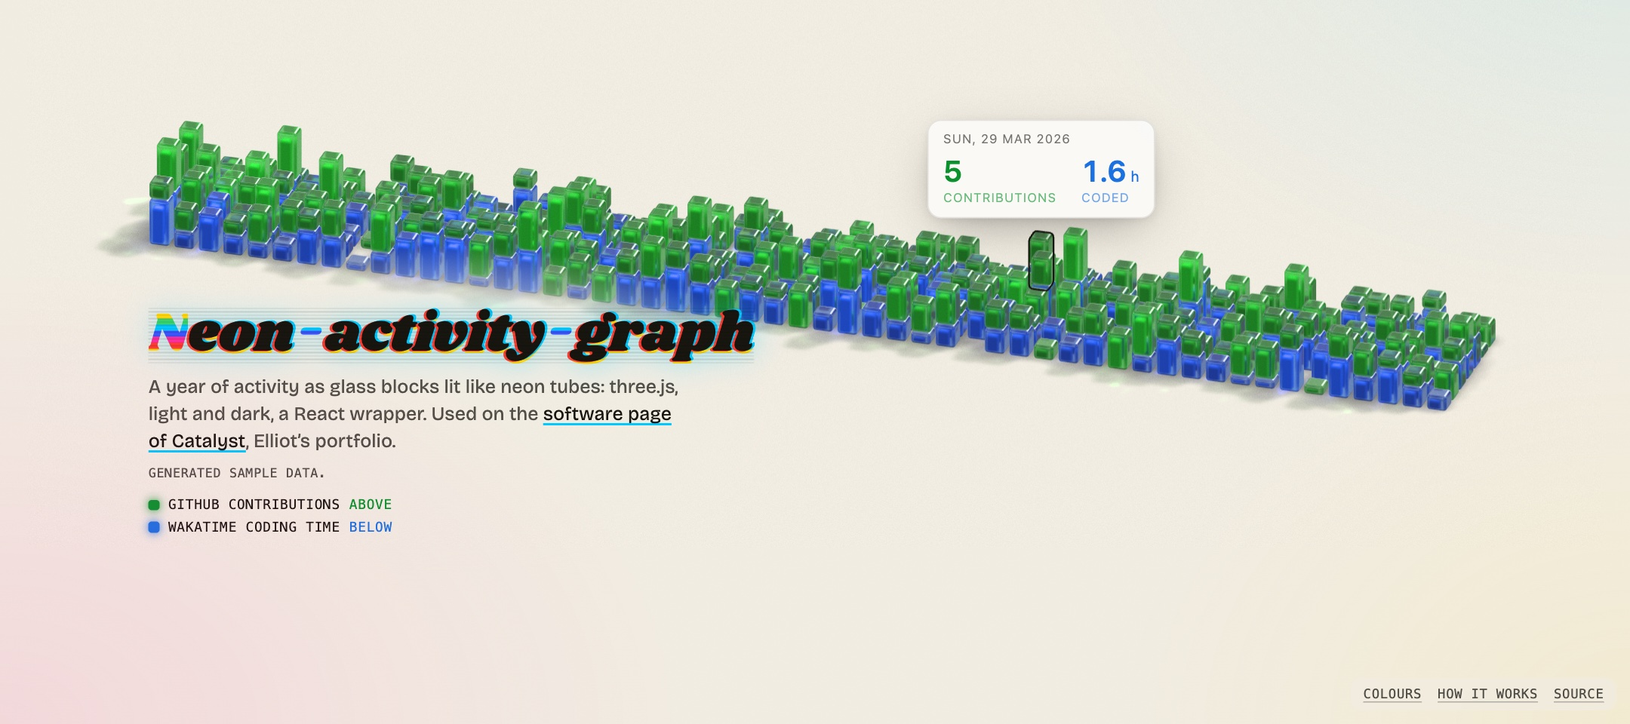
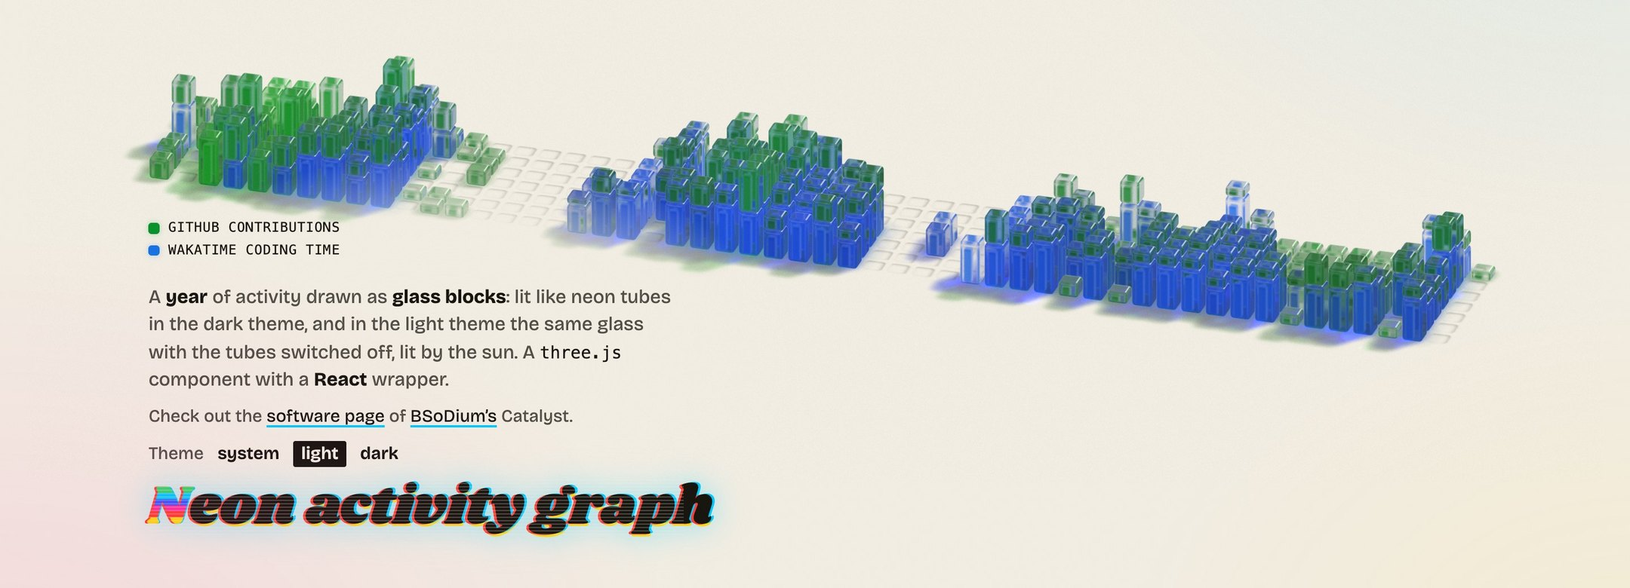
README rewritten for public readers; screenshots refreshed from the demo (#1)
Structure: what it is (dark theme neon tubes, light theme sunlit glass), demo link, features, install, quick start (vanilla and React), data, options split into options / callbacks / graph object, theming, overlay, sound, accessibility, performance, browser support, how it works, development, releasing. Every claim checked against src/types.ts and the code (lite thresholds, sample counts, overlay CSS variables, key bindings, start-up constants). The releasing section no longer speaks of 0.1.1 as the next version.

docs/dark.jpg, light.jpg and technicolor.jpg retaken from the live demo (current lighting, live data, current page).

Changed region(s): [[0.062, 0.0923, 0.9306, 0.9231], [0.8375, 0.9538, 0.9926, 0.9846], [0.5894, 0.1846, 0.6514, 0.2154]]

diff --git a/README.md b/README.md
@@ -1,24 +1,35 @@
-# Neon-activity-graph
+# neon-activity-graph
 
 [![npm](https://img.shields.io/npm/v/neon-activity-graph)](https://www.npmjs.com/package/neon-activity-graph) [![ci](https://github.com/BSoDium/Neon-activity-graph/actions/workflows/ci.yml/badge.svg)](https://github.com/BSoDium/Neon-activity-graph/actions/workflows/ci.yml) [![license](https://img.shields.io/npm/l/neon-activity-graph)](LICENSE)
 
-A 3D activity graph in three.js: one glass block a day, two layers stacked in a column (say GitHub contributions on top of coding time), lit like a neon sign **in the dark theme**: each block holds a rod that flickers on like a gas tube, with a synthesised hum. **In the light theme the tubes are switched off**: the blocks are plain tinted glass, lit by the sun, which casts coloured shadows and caustics, and there is no sound. The camera never moves, so the picture is rendered progressively (soft shadows and anti-aliasing accumulated over a few dozen frames) and then the GPU goes idle.
+A year of activity drawn as glass blocks, in three.js. Each day is a column of two blocks (say GitHub contributions on top of coding time).
 
-It draws the graph only: no panel, no figures, no legend. Hover and keyboard events are handed to you as data (`onHover`) so the card is yours.
+- **Dark theme:** every block holds a neon tube. When the graph appears, the tubes stutter on like a gas sign, with a synthesised hum and bell-like clicks, and now and then a few of them flicker.
+- **Light theme:** the same glass with the tubes switched off, lit by the sun. The glass casts coloured shadows and caustics, traced on the GPU. No sound.
+
+**[Live demo →](https://bsodium.github.io/Neon-activity-graph/)** (the author's own GitHub and WakaTime activity, refreshed every 6 hours)
 
 <p>
-  <img alt="Dark theme" src="docs/dark.jpg" width="49%" />
-  <img alt="Light theme" src="docs/light.jpg" width="49%" />
+  <img alt="Dark theme: glass blocks lit by neon tubes" src="docs/dark.jpg" width="100%" />
 </p>
 <p>
-  <img alt="Custom colours (the demo's Technicolor preset)" src="docs/technicolor.jpg" width="98%" />
+  <img alt="Light theme: the same glass, tubes off, lit by the sun" src="docs/light.jpg" width="49%" />
+  <img alt="Custom colours (the demo's Technicolor preset) and the hover card" src="docs/technicolor.jpg" width="49%" />
 </p>
 
-- Framework-agnostic core (`createActivityGraph`) and a React wrapper (`neon-activity-graph/react`)
-- Generic data: two layers of `{ date, value }`; adapters for GitHub's contribution calendar and WakaTime's summaries
-- Light and dark themes (following `prefers-color-scheme` by default), phone layout (4 strips), reduced motion, a `lite` mode
-- No assets to bundle: the baked light of the dark theme is embedded (41 KB PNG, loaded only for the dark theme)
-- `three` is a peer dependency, and is loaded on demand (`import("three")`), so the entry is small
+The camera never moves, so the picture is rendered progressively (soft shadows and anti-aliasing accumulate over a few dozen frames), and then the GPU goes idle.
+
+It draws the graph and nothing else: no panel, no figures, no legend. Hover and keyboard selection are handed to you as data (`onHover`), so the card around it is yours; an optional [overlay](#overlay) draws a ready-made one.
+
+## Features
+
+- Framework-agnostic core (`createActivityGraph`) and a React component (`neon-activity-graph/react`).
+- Generic data: two layers of `{ date, value }`, with adapters for GitHub's contribution calendar and WakaTime's summaries.
+- Light and dark themes (following `prefers-color-scheme` by default), custom colours that can change live, and a "string of lights" mode with a colour per tube.
+- A layout for narrow boxes (four staggered strips), a `lite` mode for phones and weak machines, and `prefers-reduced-motion` support.
+- A flat placeholder drawn at once (and server-rendered by the React component), seen by the scene's own camera, so the scene replaces it in place.
+- No assets to host: the dark theme's baked light is embedded (a 41 KB PNG, decoded only in the dark theme).
+- `three` is a peer dependency, imported on demand: nothing of three.js loads until a graph is created.
 
 ## Install
 
@@ -26,125 +37,208 @@ It draws the graph only: no panel, no figures, no legend. Hover and keyboard eve
 npm install neon-activity-graph three
 ```
 
+`react` (18 or later) is an optional peer dependency, needed only for `neon-activity-graph/react`. The graph needs WebGL 2.
+
 ## Quick start
 
-Vanilla:
+### Vanilla
 
 ```ts
 import { createActivityGraph, fromGitHubCalendar } from "neon-activity-graph";
 
 const graph = createActivityGraph(document.getElementById("graph")!, {
   data: {
-    top: fromGitHubCalendar(calendar), // GitHub's contributionCalendar, or any { date, value }[] layer
+    top: fromGitHubCalendar(calendar), // GitHub's contributionCalendar, or any GraphLayer
     bottom: { label: "Coding", unit: "h", days: [{ date: "2026-11-19", value: 3.5 } /* ... */] },
   },
-  onHover: (day) => { /* day: { date, top, bottom, x, y, outline } | null: show your card */ },
+  onHover: (day) => {
+    // day: { index, date, top, bottom, outline, x, y, behind? } or null
+  },
 });
 
-graph.update(newData);       // rebuilds the graph
-graph.setTheme("dark");      // "light" | "dark" | "auto"
-graph.destroy();             // frees the GPU resources and the listeners
+graph.update(newData);  // draws other data (rebuilds the graph)
+graph.setTheme("dark"); // "light" | "dark" | "auto"
+graph.destroy();        // frees the GPU resources and the listeners
 ```
 
-Give the container a size: the picture fills it (about 4:1 for one strip; with `strips: 4`, about 4:5). It needs WebGL 2.
+Give the container a size: the picture fills it. One strip wants an aspect of about 4:1; `strips: 4`, about 4:5.
 
-React:
+### React
 
 ```tsx
 import { ActivityGraphView } from "neon-activity-graph/react";
 
-<ActivityGraphView data={data} theme="auto" className="aspect-[4/1] w-full" onHover={setDay} />
+<ActivityGraphView data={data} theme="auto" overlay className="aspect-[4/1] w-full" onHover={setDay} />;
 ```
 
-`data` should be memoised (a new object rebuilds the graph); callbacks can be new closures at every render.
+The component takes the same options as `createActivityGraph`, plus `className`, `style` and `aspect` (the box's width / height: 3.97 for one strip and 0.8 for several by default, so the server-rendered placeholder has the right shape).
+
+Memoise `data`: a new object rebuilds the graph, as do `strips`, `weeks`, `lite`, `templatesUrl` and turning `rodColor` on or off. A new `theme` or `colors` is applied in place, and callbacks can be new closures on every render.
 
 ## Data
 
 ```ts
-interface GraphData { top: GraphLayer; bottom: GraphLayer }
-interface GraphLayer { label?: string; unit?: string; days: { date: string /* "2026-11-19", UTC */; value: number }[] }
+interface GraphData {
+  top: GraphLayer;
+  bottom: GraphLayer;
+}
+
+interface GraphLayer {
+  label?: string; // used by the hover card and the accessible label, not drawn
+  unit?: string;  // "contributions", "h"
+  days: { date: string /* "2026-11-19", read in UTC */; value: number }[];
+}
 ```
 
-The graph shows the last `weeks` weeks (53 by default) ending at the latest day of either layer; missing days are 0 (a flat tile). A block's height and colour follow `sqrt(value / max)` of its layer. Adapters (all pure, no network): `fromGitHubCalendar`, `fromWakaTimeSummaries`, `fromRecords(rows, date, value)`; `fakeLayer({ seed })` makes repeatable fake data for demos and tests.
+- The graph shows the last `weeks` weeks (53 by default), ending at the latest day of either layer. Missing days are 0 (a flat tile); either layer can be empty.
+- A block's height and colour follow `sqrt(value / max)` within its layer.
+- Adapters (pure, no network):
+  - `fromGitHubCalendar(calendar)`: GitHub GraphQL's `contributionsCollection.contributionCalendar`.
+  - `fromWakaTimeSummaries(summaries)`: WakaTime's `/users/current/summaries`, in hours.
+  - `fromRecords(rows, date, value, label?, unit?)`: anything with a date and a number; rows on the same day add up.
+  - `fakeLayer({ seed, days, end, scale })`: repeatable fake data for demos and tests.
 
 ## Options
 
 | Option | Default | |
 | --- | --- | --- |
-| `data` | required | The two layers, or `null` while they are being fetched (only the place-holder shows; `update(data)` builds the graph). |
+| `data` | required | The two layers, or `null` while they load: only the placeholder shows until `update(data)`. |
 | `weeks` | `53` | How many weeks are drawn. |
 | `strips` | `1` | `1` is one long strip; `4` staggers four strips for a narrow, tall box (aspect about 0.8). |
 | `theme` | `"auto"` | `"light"`, `"dark"` or `"auto"` (follows `prefers-color-scheme`). Change it with `setTheme`. |
-| `colors` | green on top, blue below | `{ top?: { light?: [low, high], dark?: [low, high] }, bottom?: ... }`, colours as `#rrggbb` or `0xrrggbb`: the glass of a quiet day and of the busiest one. Change them live with `graph.setColors({ top, bottom })` (React: change the `colors` prop): the blocks are rebuilt in place without the start-up and without refetching (the first change is applied at once, later ones within 120 ms are folded into one more rebuild); about 0.3 s from the call to the new picture in focus on a laptop (at 1440 px, 409 blocks: 0.1-0.15 s of building, then a few frames), the old picture staying, softened, until then. Colours other than the defaults get a generic rod (the hue lifted toward white) instead of the tuned green and blue. |
-| `background` | nearest opaque ancestor background | A CSS colour, or `(theme) => css`. The ground takes it, so the picture has no seam with the page. Call `setTheme` again after it changed. |
-| `rodColor` | `undefined` | `({ layer, index, date, t }) => [r, g, b] \| null`: the dark theme's rod colour (linear RGB, around 0..1; `t` is how busy the day was). Giving it turns on the "string of lights" look: clear glass, no grey veil, softer bloom; `null` keeps the default colour for that day. |
-| `sound` | `true` | The synthesised hum, dings and soft bzzs of the start-up. They play only once the browser lets the page make sound (after the visitor interacted with it) and only while the graph is on screen. |
+| `colors` | green on top, blue below | `{ top?: { light?: [low, high], dark?: [low, high] }, bottom?: ... }`: the glass of a quiet day and of the busiest one, as `#rrggbb` or `0xrrggbb`. See [Theming](#theming). |
+| `background` | the nearest opaque ancestor's | A CSS colour, or `(theme) => css`. The ground takes it, so the picture has no seam with the page. Call `setTheme` again after it changes. |
+| `rodColor` | | `({ layer, index, date, t }) => [r, g, b] \| null`: each tube's colour in the dark theme. See [Theming](#theming). |
+| `sound` | `true` | The start-up's hum and clicks, and the hum of the selected tube. See [Sound](#sound). |
 | `reducedMotion` | `"auto"` | `"auto"` follows `prefers-reduced-motion`; when reduced there is no start-up and no flicker. |
-| `lite` | `"auto"` | The light version: a third of the frames, lower resolution, simpler blocks. `"auto"` turns it on for coarse pointers and for machines with 4 cores or fewer or under 4 GB. |
-| `grain` | `0.012` | Camera grain strength; `0` is off. |
-| `templatesUrl` | embedded | URL of `caustic-templates.png` (see below) instead of the embedded data URI. |
-| `label` | "Activity graph, ..." | The accessible name. The arrow keys walk the days (focus the graph by clicking it), Escape lets go. |
-| `placeholder` | `true` | Shows the flat days (the same slab, seen by the same camera, strips on a narrow box) at once, pulsing, and fades it out when the first picture is on screen. The React view renders it itself, so it is in server-rendered pages. |
-| `overlay` | off | `true` or `{ outline?, card?, locale? }`: the day's outline (an SVG path round its blocks) and a day card, drawn over the graph. `card` can be `false` or a function `(info) => string \| Node`. Styled with CSS variables on the container or above: `--nag-outline`, `--nag-outline-fill`, `--nag-card-bg`, `--nag-card-fg`, `--nag-card-muted`, `--nag-top`, `--nag-bottom`, `--nag-card-radius`. |
-| `maxPixelRatio` | `2` | The highest pixel ratio the picture is rendered at (`lite` is always 1). |
-| `maxPixels` | `8_000_000` | The most pixels rendered; a larger container is rendered at a lower ratio (also capped by the card's texture size). |
-| `onLayout` | | `(bounds) => void`: where the blocks are on the screen, `{ left, right, top, bottom }` in CSS pixels of the container (the first layout, and every resize). The same numbers are on the container as the CSS variables `--nag-content-left`, `--nag-content-right`, `--nag-content-top` and `--nag-content-bottom`, and in `graph.bounds`: use them to line a caption up with the picture and not with its box (the demo hangs its title in the empty ground at the bottom left, `left: var(--nag-content-left)`). |
-| `onHover` | | `(info \| null) => void`: `{ index, date, top, bottom, outline, x, y, behind }`. `outline` is the SVG `points` of the day's silhouette, `x, y` a point on its top in CSS pixels of the container. Clicking days that are behind one another cycles through them (`behind`). |
-| `onRedrawn` | | The picture has been drawn again and is in focus (after the first build and after every rebuild: theme, colours, resize): time an effect to this, not to the click that asked for it (the demo's cling). |
-| `onReady` / `onLit` | | The first picture is on screen (fade your place-holder); the picture is lit (`false` while the start-up runs). |
-| `startup` | | `({ inView }) => { start?, stop? } \| void`: called each time a start-up is prepared, to hook your own sound or greeting to it. |
+| `lite` | `"auto"` | A third of the frames, a lower resolution, simpler blocks. `"auto"` turns it on for coarse pointers, 4 CPU cores or fewer, or under 4 GB of memory. |
+| `grain` | `0.012` | Film grain strength; `0` turns it off. |
+| `placeholder` | `true` | The flat days, shown at once and pulsing, faded out when the first picture is on screen. |
+| `overlay` | off | `true` or `{ outline?, card?, locale? }`: the selected day's outline and a day card, drawn over the graph. See [Overlay](#overlay). |
+| `label` | "Activity graph, one column a day. …" | The accessible name. |
+| `templatesUrl` | embedded | Where to fetch `caustic-templates.png` from, instead of the embedded data URI. |
+| `maxPixelRatio` | `2` | The highest pixel ratio rendered (`lite` always renders at 1). |
+| `maxPixels` | `8_000_000` | The most pixels rendered; a larger container is rendered at a lower ratio. |
 | `debug` | | `{ metrics?, wireframe?, neonHold? }`: development helpers (`data-*` timings on the container, the glass as a cage, the picture held half on). |
 
-`createHoverOverlay(container, options, labels)` is the overlay on its own, for a graph you drive yourself. In React, `<ActivityGraphView aspect={4} overlay />` takes the same options (`aspect` is the box's, so the server-rendered place-holder has the right shape).
+### Callbacks
 
-The blocks' bounds are also known before anything is drawn: `predictBounds(weeks, strips, width, height)` (in `neon-activity-graph/layout`) is what the container's `--nag-content-*` variables are set from at creation, so a caption lined up with the picture is placed at the first paint and does not move when the scene arrives; the scene's own measurement replaces it a moment later (a few pixels at most).
+| Callback | |
+| --- | --- |
+| `onHover(info \| null)` | The day under the pointer or the arrow keys: `{ index, date, top, bottom, outline, x, y, behind? }`. `outline` is the SVG `points` of the column's silhouette and `x, y` a point on its top, in CSS pixels of the container. Clicking where days stand behind one another cycles through them (`behind: { index, count }`). |
+| `onLayout(bounds)` | Where the blocks are, `{ left, right, top, bottom }` in CSS pixels of the container, on the first layout and on every resize. |
+| `onReady()` | The first picture is on screen. |
+| `onRedrawn()` | The picture has been drawn again and is in focus: after the first build and after every rebuild (theme, colours, resize). Time an effect to this rather than to the click that asked for it. |
+| `onLit(lit)` | `false` while the start-up runs, `true` once the picture is lit. |
+| `startup({ inView })` | Called each time a start-up is prepared; return `{ start?, stop? }` to hook your own sound or greeting to it. |
 
-`graph.cling("small" | "big")` plays one of the start-up's bell-like clicks on demand (the demo uses it when the colours change): same synthesised bell, quiet, honours `sound`, silent in the light theme (the tubes are off) and where the browser does not allow sound yet (call it from a click or key handler).
+### The graph object
 
-A flat place-holder that shares the scene's camera (so the scene replaces it in place) can be drawn without loading three.js: `import { placeholderTiles } from "neon-activity-graph/layout"` gives an SVG `viewBox` and one path of all the squares.
+| Member | |
+| --- | --- |
+| `update(data)` | Draws other data (the graph is rebuilt). |
+| `setTheme(theme)` | Switches the theme; the start-up plays again in the dark theme. |
+| `setColors({ top?, bottom? })` | Changes the colours in place. See [Theming](#theming). |
+| `cling("small" \| "big")` | One of the start-up's bell-like clicks, on demand (for a change the visitor made). Silent in the light theme and when `sound` is off. |
+| `bounds` | The blocks' bounds (`null` before the first layout). |
+| `ready` | A promise that resolves when the graph has been built (or has failed). |
+| `destroy()` | Stops everything and frees the GPU resources and the listeners. |
+
+### Lining things up with the picture
+
+The isometric view leaves empty ground in the corners of the box, so a caption lined up with the box looks off. The blocks' bounds are set on the container as the CSS variables `--nag-content-left`, `--nag-content-right`, `--nag-content-top` and `--nag-content-bottom` (and in `graph.bounds` and `onLayout`). They are predicted from the geometry at creation, so a caption placed with `left: var(--nag-content-left)` is right from the first paint; the scene's own measurement replaces them a moment later (a few pixels at most).
+
+### Without three.js
+
+`neon-activity-graph/layout` needs neither three.js nor a browser: the adapters, the grid of days, `predictBounds(weeks, strips, width, height)`, and `placeholderTiles()` / `placeholderMarkup()` for a flat placeholder (an SVG `viewBox` and one path of all the squares) seen by the scene's camera.
+
+## Theming
+
+- **Themes.** `"auto"` follows `prefers-color-scheme` and its changes. The ground takes the page's background (`background`, or the nearest opaque ancestor's), so the picture sits on the page without a seam.
+- **Colours.** Each layer has two tones per theme: the glass of its quietest day and of its busiest one; the days in between are mixed. The defaults are a GitHub-like green on top and a blue below, with tubes tuned to them; other colours get a generic tube (the hue lifted toward white).
+- **Live changes.** `graph.setColors({ top, bottom })` (or a new `colors` prop in React) rebuilds the blocks in place, without the start-up and without new data. The first change is applied at once; changes in the next 120 ms (dragging a colour input) are folded into one more rebuild. The old picture stays, softened, until the new one is in focus: about 0.3 s on a laptop.
+- **String of lights.** `rodColor` gives each tube its own colour in the dark theme (linear RGB around 0..1; `t` is how busy the day was; `null` keeps the default). It also switches to clear glass, no grey veil and a softer bloom. The light theme ignores it.
+
+The [demo](https://bsodium.github.io/Neon-activity-graph/) has a few presets (Technicolor, Ice, Sunset, Mono) and colour pickers.
+
+## Overlay
+
+`overlay: true` (or `<ActivityGraphView overlay />`) draws the selected day's outline (an SVG path around its blocks) and a day card over the graph. `outline: false` and `card: false` turn either off, `card` can also be a function `(info) => string | Node` for your own content, and `locale` formats the default card's date. Style it with CSS variables on the container or above: `--nag-outline`, `--nag-outline-fill`, `--nag-card-bg`, `--nag-card-fg`, `--nag-card-muted`, `--nag-card-radius`, `--nag-top`, `--nag-bottom`.
+
+`createHoverOverlay(container, options, labels)` is the same overlay on its own, for a graph you drive yourself.
+
+## Sound
+
+All sound is synthesised with Web Audio; there are no files.
+
+- The dark theme's start-up: a low ballast hum that dies away, and soft bell-like clicks as areas of tubes catch.
+- The idle flickers, and a faint hum on the selected tube that follows its brightness.
+- `graph.cling()`, on demand.
+
+Sound plays only once the browser lets the page make it (after the visitor has interacted with the page), and only while the graph is on screen and the tab visible. The light theme is silent: its tubes are off. `sound: false` turns it all off.
+
+## Accessibility
+
+- The container is a `group` with an accessible name (`label`).
+- Once the graph has been clicked, the arrow keys walk the days (left and right by week, up and down by day) and Escape lets go. The graph is not in the tab order.
+- The overlay announces the selected day through a polite live region.
+- With `prefers-reduced-motion` (or `reducedMotion: true`) there is no start-up and no flicker.
+
+If the graph carries information your page does not give elsewhere, add a text alternative of your own (a summary or a table).
 
 ## Performance
 
-- Nothing moves, so the picture is drawn once, a frame at a time (96 jittered samples; 32 in `lite`), then the render loop stops. Hover only re-lights the blocks (a few frames, then stops again).
-- The start-up and the idle flickers update the light of the blocks, not their geometry: a light update costs about 0.05 ms of CPU and a frame about 0.5 ms on an Apple M4; on an emulated Pixel 7 (CPU slowed 6x) 0.7-0.8 ms and 4-5 ms.
-- The one-time build (geometry, ground light) stalls the main thread for a few hundred ms, up to 1.3 s on a slowed phone. Dark theme: the baked light is decoded once.
-- The idle flickers run only while the graph is in view and the tab visible; `prefers-reduced-motion` skips the start-up altogether.
-- The picture is rendered at the container's size times the pixel ratio (up to 2), so it grows with the screen; above 8 million pixels the ratio drops. Measured (Chrome on an Apple M4, dark and light): a 2352 px wide graph on a 2560 px screen at ratio 2 renders 4704 x 1184 px (5.6 MP), the first picture is on screen after about 1 s, rAF stays at 16.7 ms (p95 16.8 ms) with a one-time build hitch of 250-330 ms, JS heap about 100 MB. GPU memory is not measured: expect a few hundred MB of half-float targets at that size, which `maxPixels` bounds.
-- three.js is imported on demand: until the graph is created nothing of it is loaded.
+- Nothing moves, so the picture is drawn once, a frame at a time (96 jittered samples; 32 in `lite`), and then the render loop stops. Hovering only re-lights the blocks: a few frames, then it stops again.
+- The start-up and the idle flickers change the blocks' light, not their geometry: a light update costs about 0.05 ms of CPU and a frame about 0.5 ms on an Apple M4 (0.7-0.8 ms and 4-5 ms on an emulated Pixel 7 with the CPU slowed 6x).
+- The one-time build (geometry, ground light) blocks the main thread for a few hundred ms, up to 1.3 s on a slowed phone.
+- Flickers run only while the graph is in view and the tab visible.
+- The picture is rendered at the container's size times the pixel ratio (up to 2); above 8 million pixels the ratio drops. Measured in Chrome on an Apple M4: a 2352 px wide graph at ratio 2 renders 4704 x 1184 px (5.6 MP) and is on screen after about 1 s, with a one-time build hitch of 250-330 ms, then rAF at 16.7 ms (p95 16.8 ms) and a JS heap of about 100 MB. GPU memory was not measured: expect a few hundred MB of half-float render targets at that size, which `maxPixels` bounds.
 
 ## Browser support
 
-Anything with WebGL 2 and half-float render targets (current Chrome, Edge, Firefox, Safari 15+, iOS Safari). Without WebGL 2 the call fails (logged); check first and draw a fallback if you care (`document.createElement("canvas").getContext("webgl2")`).
+Anything with WebGL 2 and half-float render targets: current Chrome, Edge and Firefox, Safari 15+, iOS Safari. Without WebGL 2 the graph fails (and logs it); check first if you want a fallback:
 
-## How the optics work
+```ts
+const supported = !!document.createElement("canvas").getContext("webgl2");
+```
 
-- **Light theme.** The sun's light through the glass is traced on the GPU (`ground-light.ts`, a vertex shader that splats rays onto the ground): refraction, Fresnel, total internal reflection, the glass's colour absorption, rounded edges. The ground's brightness is a signed difference to what it would have got with no glass, so shadows are coloured and soft and the caustics are the surplus. `glass-caustics.ts` is the readable CPU version of the same optics, with the tests.
-- **Dark theme.** There is no sun; the light is each block's rod. What one block casts on the ground is *baked*: `assets/caustic-templates.png` holds path-traced templates (Mitsuba 3) of a glass block with a rod in it, for 3 heights x 4 heights above the ground, averaged over the square's symmetries. The graph lays the right template under every block, in the rod's colour. Tracing this live does not work: with the rays a page can afford the result is noise.
-- **Start-up.** The blocks are split into 5 adjacent rectangles of different sizes (recursive cuts), each with its own few stutters (2-4), then a warm-up; a block whose rod is off is dim and lit by its lit neighbours. The sound is Web Audio (a 100 Hz ballast hum and bell-like dings), no file. Afterwards, rarely and less and less, a batch of tubes flickers like a sign's.
-- **Grain.** A soft, luminance-dependent noise added in the last pass, like a camera's.
+## How it works
+
+- **Light theme.** The sun's light through the glass is traced on the GPU (`ground-light.ts`: a vertex shader that splats rays onto the ground) with refraction, Fresnel, total internal reflection, the glass's colour absorption and rounded edges. The ground's brightness is a signed difference to what it would get with no glass, so the shadows are coloured and soft and the caustics are the surplus. `glass-caustics.ts` is the readable CPU version of the same optics, and what the tests check.
+- **Dark theme.** There is no sun: the light is each block's tube. What one block casts on the ground is baked: `assets/caustic-templates.png` holds path-traced templates (Mitsuba 3) of a glass block with a tube inside, for 3 block heights x 4 heights above the ground, averaged over the square's symmetries. The graph lays the right template under every block, in the tube's colour. Tracing this live does not work: with the rays a page can afford, the result is noise.
+- **Start-up.** The blocks are cut into 5 adjacent rectangles of different sizes, each with its own 2-4 stutters and a short warm-up. A block whose tube is still off is dim, lit only by its neighbours. Afterwards, rarely and less and less often, a small batch of tubes flickers like a real sign's.
+- **Grain.** A soft, luminance-dependent noise in the last pass, like a camera's.
+
+More on the dark theme's glass and tubes: [`docs/dark-glass-and-rods.md`](docs/dark-glass-and-rods.md).
 
 ### Regenerating the caustic templates
 
-Only needed if the blocks' shape or the rod changes. See `scripts/caustic-templates/README.md` (Mitsuba 3, about 15 minutes), then `pnpm embed:templates` rewrites the embedded data URI (`pnpm build` does it too).
+Only needed if the blocks' shape or the tube changes. See [`scripts/caustic-templates/README.md`](scripts/caustic-templates/README.md) (Mitsuba 3, about 15 minutes), then `pnpm embed:templates` rewrites the embedded data URI (`pnpm build` does it too).
 
-## Demo and playground
-
-The demo's fonts are Shrikhand (title), Bricolage Grotesque (text) and JetBrains Mono (labels), all SIL Open Font License 1.1 (licence texts in `demo/public/fonts`), Latin subsets, self-hosted. It also shows the colour presets (`setColors`), a title that switches on with the graph's start-up, and the overlay.
-
-
-The [demo](https://bsodium.github.io/Neon-activity-graph/) draws the author's current activity (GitHub contributions over WakaTime coding time) and falls back to generated data when the activity file is not there. `demo/` is the page, `demo/scripts/fetch-activity.mjs` fetches public data without a token (a scheduled workflow writes `activity.json` to the `data` branch every 6 hours; set the repository variables `GITHUB_LOGIN` and `WAKATIME_USER` to draw somebody else).
+## Development
 
 ```sh
-pnpm demo  # the demo page
-pnpm dev   # the playground: fake data and every option
+pnpm install
+pnpm dev        # the playground: fake data and every option
+pnpm demo       # the demo page
+pnpm test       # vitest
+pnpm typecheck
+pnpm build      # dist/ (embeds the templates, then tsup)
 ```
+
+The [demo](https://bsodium.github.io/Neon-activity-graph/) (`demo/`) draws the author's current activity: GitHub contributions over WakaTime coding time. `demo/scripts/fetch-activity.mjs` fetches public data without a token, and a scheduled workflow writes `activity.json` to the `data` branch every 6 hours (set the repository variables `GITHUB_LOGIN` and `WAKATIME_USER` to draw someone else's). Without that file the demo falls back to generated data. Its fonts are Shrikhand, Bricolage Grotesque and JetBrains Mono, all under the SIL Open Font License 1.1 (licence texts in `demo/public/fonts`), self-hosted Latin subsets.
 
 ## Releasing (maintainers)
 
-Releases go through npm Trusted Publishing (OIDC): no npm token is created or stored. `0.1.0` was published by hand (a trusted publisher can only be attached to a package that exists); the trusted publisher is set on npmjs.com (package > Settings > Trusted Publisher > GitHub Actions: user `BSoDium`, repository `Neon-activity-graph`, workflow `release.yml`, environment empty).
+Releases go through npm Trusted Publishing (OIDC): no npm token is created or stored. The trusted publisher is set on npmjs.com (package > Settings > Trusted Publisher > GitHub Actions: user `BSoDium`, repository `Neon-activity-graph`, workflow `release.yml`, environment empty). `0.1.0` was published by hand, since a trusted publisher can only be attached to a package that already exists.
 
-From now on: bump `version` in `package.json` (the next one, `0.1.1`, is the first to be published with provenance), commit, then `git tag v0.1.1 && git push origin v0.1.1`. The `release` workflow tests, builds and publishes with provenance; the tag must match the version, and a tag for a version already on npm does nothing.
+To release:
+
+1. Bump `version` in `package.json` and commit.
+2. Tag and push: `git tag vX.Y.Z && git push origin vX.Y.Z`.
+
+The `release` workflow type-checks, tests, builds and publishes with provenance. The tag must match `package.json`; a tag for a version already on npm does nothing.
 
 ## License
 
-MIT
+[MIT](LICENSE) © Elliot Négrel-Jerzy
